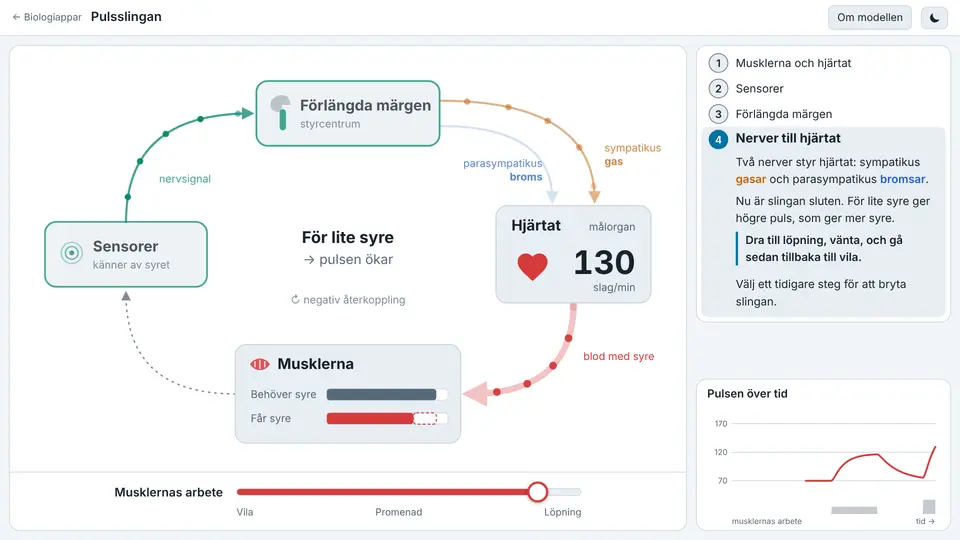
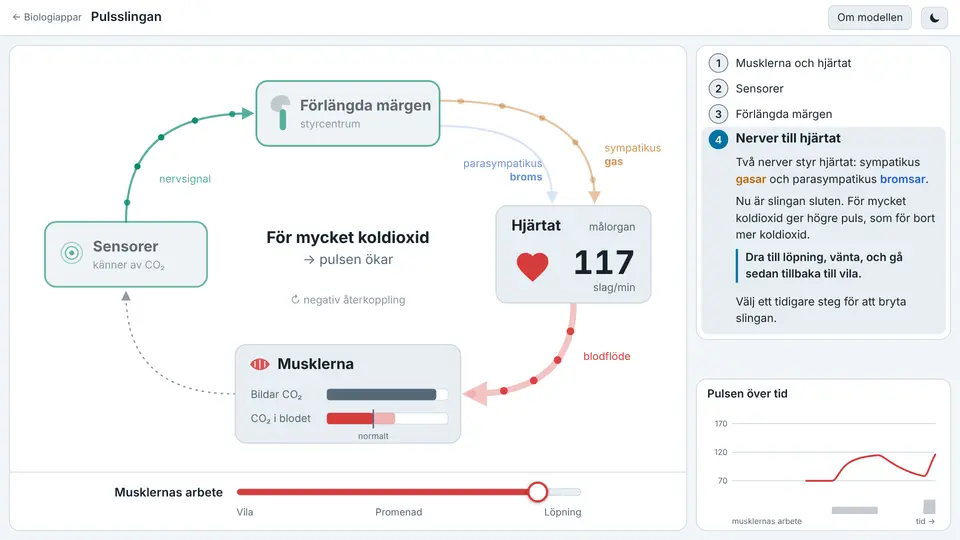
Pulsslingan: koldioxid i stället för syre som reglerad storhet
Musklerna bildar koldioxid, blodet för bort den i takt med pulsen och
sensorerna (kemoreceptorerna) känner av halten, som i läroboken. Staplarna
visar nu bildning och halt i blodet med ett streck för det normala.
Texter, skärmbilder och README uppdaterade.

Claude-Session: https://claude.ai/code/session_01HNnAZB4cnBmYdBxoNJgV11

diff --git a/puls/index.html b/puls/index.html
@@ -5,7 +5,7 @@
 <meta charset="UTF-8">
 <meta name="viewport" content="width=device-width, initial-scale=1.0">
 <title>Pulsslingan 0.1</title>
-<meta name="description" content="Bygg upp regleringen av pulsen en del i taget och se hur kroppen kompenserar när musklerna arbetar.">
+<meta name="description" content="Bygg upp regleringen av pulsen en del i taget och se hur kroppen håller koldioxidhalten nere när musklerna arbetar.">
 <script id="tema-start">
   // Tema före första ritningen, så att sidan inte blinkar till i fel tema.
   // Ett sparat val (temaknappen) gäller i alla apparna på webbplatsen;
@@ -18,7 +18,7 @@
   })();
 </script>
 <style>
-  /* Fyra färger bär betydelse, och bara de: blod/syre, sensorisk signal, gas och broms. */
+  /* Fyra färger bär betydelse, och bara de: blod, sensorisk signal, gas och broms. */
   :root {
     --bg:        #0b1016;
     --bg2:       #121a23;
@@ -150,7 +150,7 @@
   #lage1 { font-size: 23px; font-weight: 650; }
   #lage2 { font-size: 19px; }
   .stapel-bak { fill: var(--bg2); stroke: var(--border); }
-  #brist { fill: none; stroke: var(--blod); stroke-width: 1.5; stroke-dasharray: 4 3; }
+  #brist { fill: var(--blod); fill-opacity: .4; }
 
   /* ---------- Stegen ---------- */
   .sida { display: flex; flex-direction: column; gap: 12px; min-height: 0; overflow-y: auto; }
@@ -231,7 +231,7 @@
 <main>
   <section class="panel bild" aria-label="Regleringen av pulsen">
     <svg id="scen" viewBox="0 0 960 560" role="img" aria-labelledby="scen-titel">
-      <title id="scen-titel">Slingan som reglerar pulsen: musklerna, sensorer, förlängda märgen och hjärtat</title>
+      <title id="scen-titel">Slingan som reglerar koldioxidhalten och pulsen: musklerna, sensorer, förlängda märgen och hjärtat</title>
       <defs>
         <marker id="pil-blod" viewBox="0 0 10 10" refX="7" refY="5" markerWidth="4" markerHeight="4" orient="auto"><path d="M0 0L10 5L0 10z" class="f-blod"/></marker>
         <marker id="pil-nerv" viewBox="0 0 10 10" refX="7" refY="5" markerWidth="6" markerHeight="6" orient="auto"><path d="M0 0L10 5L0 10z" class="f-nerv"/></marker>
@@ -243,7 +243,7 @@
       <!-- Vägarna ritas först, så att korten ligger ovanpå ändarna. -->
       <g id="vag-blod">
         <path id="p-blod" class="vag s-blod" d="M800 343 Q800 472 652 472" stroke-width="9" opacity=".3" marker-end="url(#pil-blod)"/>
-        <text class="etikett f-blod" x="814" y="424">blod med syre</text>
+        <text class="etikett f-blod" x="814" y="424">blodflöde</text>
       </g>
       <g data-fran="2">
         <path class="vag s-dim" d="M320 472 Q165 472 165 330" stroke-width="2" stroke-dasharray="2 7" marker-end="url(#pil-dim)"/>
@@ -268,13 +268,15 @@
           <path d="M8 9.5v9M15 7.5v13M22 9.5v9" stroke="var(--bg3)" stroke-width="1.6"/>
         </g>
         <text class="rubrik" x="380" y="437">Musklerna</text>
-        <text class="roll dim" x="342" y="478">Behöver syre</text>
+        <text class="roll dim" x="342" y="478">Bildar CO₂</text>
         <rect class="stapel-bak" x="450" y="465" width="172" height="16" rx="4"/>
         <rect id="stapel-behov" class="f-dim" x="450" y="465" width="66" height="16" rx="4"/>
-        <text class="roll dim" x="342" y="512">Får syre</text>
+        <text class="roll dim" x="342" y="512">CO₂ i blodet</text>
         <rect class="stapel-bak" x="450" y="499" width="172" height="16" rx="4"/>
         <rect id="stapel-far" class="f-blod" x="450" y="499" width="66" height="16" rx="4"/>
         <rect id="brist" x="516" y="499" width="0" height="16" rx="4"/>
+        <line id="normal-streck" x1="516" x2="516" y1="494" y2="521" class="s-dim" stroke-width="2"/>
+        <text class="dim" x="516" y="536" text-anchor="middle" font-size="12">normalt</text>
       </g>
 
       <!-- Hjärtat -->
@@ -302,7 +304,7 @@
           <circle cx="16" cy="16" r="3.5" class="f-nerv"/>
         </g>
         <text class="rubrik" x="118" y="270">Sensorer</text>
-        <text class="roll dim" x="118" y="294">känner av syret</text>
+        <text class="roll dim" x="118" y="294">känner av CO₂</text>
       </g>
 
       <!-- Förlängda märgen -->
@@ -329,7 +331,7 @@
 
       <!-- Vad som händer just nu, mitt i slingan -->
       <g aria-live="polite">
-        <text id="lage1" x="480" y="258" text-anchor="middle">Syret räcker</text>
+        <text id="lage1" x="480" y="258" text-anchor="middle">Normal CO₂-halt</text>
         <text id="lage2" class="dim" x="480" y="288" text-anchor="middle"></text>
       </g>
       <text class="roll dim" data-fran="4" x="480" y="344" text-anchor="middle">↻ negativ återkoppling</text>
@@ -365,8 +367,8 @@
     <li>Modellen är förenklad för att visa principen: en störning, en sensor, ett styrcentrum, ett målorgan och en slinga som sluts.</li>
     <li>Tiden går fortare än i verkligheten. I kroppen tar det någon minut för pulsen att ställa in sig, och längre än så att återhämta sig.</li>
     <li>Här står pulsen still på 70 tills slingan är sluten. Ett hjärta helt utan nerver slår i sin egen takt, ungefär 100 slag/min. Vilopulsen är lägre eftersom parasympatikus bromsar hela tiden.</li>
-    <li>Sensorerna (kemoreceptorer) känner i verkligheten mest av koldioxid och pH i blodet, som ändras när musklerna arbetar. Pulsen styrs också av blodtrycket, av signaler från muskler och leder, av hjärnans egna förberedelser inför rörelse och av adrenalin.</li>
-    <li>Hjärtat pumpar också mer blod per slag vid arbete. Här ändras bara pulsen.</li>
+    <li>Sensorerna är kemoreceptorer. De känner av koldioxid och därmed pH i blodet: mer koldioxid ger lägre pH. Syrehalten ändras mycket mindre vid arbete.</li>
+    <li>Koldioxiden förs i verkligheten bort av andningen också, som ökar vid arbete. Här ingår bara hjärtats del. Pulsen styrs dessutom av blodtrycket, av signaler från muskler och leder, av hjärnans förberedelser inför rörelse och av adrenalin, och hjärtat pumpar mer blod per slag vid arbete.</li>
   </ul>
   <form method="dialog"><button class="knapp" type="submit">Stäng</button></form>
 </dialog>
@@ -404,25 +406,28 @@ const Tema = (() => {
 // ---------------------------------------------------------------------
 // Modellen
 // ---------------------------------------------------------------------
-// Musklernas behov av syre och det syre blodet levererar räknas i andelar av
-// vilovärdet (1 = vila). Leveransen följer pulsen. När slingan är sluten
-// (steg 4) ändrar förlängda märgen pulsen så länge behov och leverans skiljer
-// sig åt; annars står pulsen på vilovärdet.
+// Musklerna bildar koldioxid (behov, i andelar av vilovärdet: 1 = vila) och
+// blodet för bort den i takt med pulsen. Koldioxidhalten i blodet (co2, 1 = normalt)
+// stiger när det bildas mer än vad som förs bort. När slingan är sluten (steg 4)
+// ändrar förlängda märgen pulsen så länge halten avviker från det normala;
+// annars står pulsen på vilovärdet.
 const VILOPULS = 70, MAXBEHOV = 2.5;
 const klamp = (x, a, b) => Math.min(b, Math.max(a, x));
 const Modell = {
   steg: 1,        // 1 muskler och hjärta, 2 + sensorer, 3 + förlängda märgen, 4 + nerver (sluten slinga)
   arbete: 0,      // 0 vila … 1 löpning
-  behov: 1,
+  behov: 1,       // musklernas bildning av koldioxid
+  co2: 1,         // koldioxidhalt i blodet
   puls: VILOPULS,
-  get leverans() { return this.puls / VILOPULS; },
-  get skillnad() { return this.behov - this.leverans; },       // > 0: för lite syre
+  get leverans() { return this.puls / VILOPULS; },             // bortförsel per enhet koldioxid
+  get skillnad() { return this.co2 - 1; },                     // > 0: för mycket koldioxid
   // Nervernas aktivitet, 0–1. Bromsen släpper först, sedan ökar gasen.
   get broms() { return klamp((100 - this.puls) / 30, 0, 1); },
   get gas() { return klamp((this.puls - 75) / 105, 0, 1); },
   stega(dt) {
     const mal = 1 + (MAXBEHOV - 1) * this.arbete;
     this.behov += (mal - this.behov) * Math.min(1, dt / 0.4);
+    this.co2 += (this.behov - this.leverans * this.co2) * Math.min(1, dt / 0.5);
     if (this.steg >= 4) {
       const e = this.skillnad;
       this.puls += VILOPULS * e * dt / (e > 0 ? 2.2 : 4);        // återhämtningen går långsammare
@@ -438,11 +443,11 @@ const Modell = {
 // ---------------------------------------------------------------------
 const STEG = [
   { titel: 'Musklerna och hjärtat',
-    text: ['Hjärtat pumpar blod med syre till musklerna. Hårt arbete kräver mer syre.'],
-    prova: 'Dra reglaget mot löpning. Räcker syret?',
+    text: ['Musklerna bildar koldioxid, och blodet från hjärtat för bort den. Hårt arbete ger mer koldioxid.'],
+    prova: 'Dra reglaget mot löpning. Vad händer med koldioxidhalten?',
     nasta: 'Lägg till sensorer' },
   { titel: 'Sensorer',
-    text: ['Sensorer i blodkärlen känner av när syret inte räcker. Då skickar de nervsignaler.'],
+    text: ['Sensorer i blodkärlen känner av koldioxid. När halten stiger skickar de nervsignaler.'],
     prova: 'Öka arbetet igen. Vart tar signalen vägen?',
     nasta: 'Lägg till förlängda märgen' },
   { titel: 'Förlängda märgen',
@@ -451,7 +456,7 @@ const STEG = [
     nasta: 'Lägg till nerver till hjärtat' },
   { titel: 'Nerver till hjärtat',
     text: ['Två nerver styr hjärtat: sympatikus <span class="ord-gas">gasar</span> och parasympatikus <span class="ord-broms">bromsar</span>.',
-           'Nu är slingan sluten. För lite syre ger högre puls, som ger mer syre.'],
+           'Nu är slingan sluten. För mycket koldioxid ger högre puls, som för bort mer koldioxid.'],
     prova: 'Dra till löpning, vänta, och gå sedan tillbaka till vila.',
     efter: 'Välj ett tidigare steg för att bryta slingan.' },
 ];
@@ -538,7 +543,7 @@ const prickGas = prickrad('p-gas', 'f-gas', 5, 4.5);
 const prickBroms = prickrad('p-broms', 'f-broms', 5, 4.5);
 
 const GRANS = 0.05;          // mindre skillnad än så räknas som balans
-const STAPEL = 172 / 2.6;    // pixlar per andel av vilobehovet
+const STAPEL = 172 / 2.6;    // pixlar per andel av vilovärdet
 const historik = [];         // { puls, arbete }, en punkt per tiondels sekund
 let sedanPunkt = 0, hjartfas = 0;
 const lugnt = matchMedia('(prefers-reduced-motion: reduce)');
@@ -546,20 +551,20 @@ const lugnt = matchMedia('(prefers-reduced-motion: reduce)');
 function lagestext() {
   const e = Modell.skillnad, s = Modell.steg;
   if (e > GRANS) {
-    return ['För lite syre', ['pulsen ändras inte', 'signalen når ingen', 'signalen når inte hjärtat', '→ pulsen ökar'][s - 1]];
+    return ['För mycket koldioxid', ['pulsen ändras inte', 'signalen når ingen', 'signalen når inte hjärtat', '→ pulsen ökar'][s - 1]];
   }
-  if (s >= 4 && e < -GRANS) return ['Mer syre än det behövs', '→ pulsen sjunker'];
-  return s >= 4 ? ['I balans', 'syret räcker precis'] : ['Syret räcker', ''];
+  if (s >= 4 && e < -GRANS) return ['För lite koldioxid', '→ pulsen sjunker'];
+  return s >= 4 ? ['I balans', 'koldioxidhalten är normal'] : ['Normal CO₂-halt', ''];
 }
 
 function rita(dt) {
   const m = Modell, e = m.skillnad;
   // Musklernas staplar
-  const behov = m.behov * STAPEL, far = m.leverans * STAPEL;
+  const behov = m.behov * STAPEL;
   $('stapel-behov').setAttribute('width', behov.toFixed(1));
-  $('stapel-far').setAttribute('width', far.toFixed(1));
-  $('brist').setAttribute('x', (450 + far).toFixed(1));
-  $('brist').setAttribute('width', Math.max(0, behov - far).toFixed(1));
+  $('stapel-far').setAttribute('width', Math.min(1, m.co2) * STAPEL);
+  $('brist').setAttribute('x', (450 + STAPEL).toFixed(1));
+  $('brist').setAttribute('width', Math.max(0, Math.min(172, m.co2 * STAPEL) - STAPEL).toFixed(1));
   // Hjärtat
   $('puls-tal').textContent = Math.round(m.puls);
   hjartfas = (hjartfas + dt * m.puls / 60) % 1;

diff --git a/biologi/index.html b/biologi/index.html
@@ -163,10 +163,10 @@
         <p>Varför slår hjärtat fortare när du springer? Bygg upp regleringen av pulsen en del i taget: musklerna och
         hjärtat, sensorerna, förlängda märgen och nerverna till hjärtat. Ett enda reglage, musklernas arbete, visar
         vad varje del gör och vad som saknas tills slingan är sluten.</p>
-        <p>När slingan är sluten syns hur kroppen kompenserar: syret räcker inte, pulsen stiger och balansen kommer
-        tillbaka. Gjord för att förstås snabbt, med lite text och få saker att hålla reda på.</p>
+        <p>När slingan är sluten syns hur kroppen kompenserar: musklerna bildar koldioxid, sensorerna känner av den, pulsen stiger och
+        koldioxidhalten kommer tillbaka till det normala. Gjord för att förstås snabbt, med lite text och få saker att hålla reda på.</p>
         <ul class="omraden" aria-label="Områden">
-          <li>Homeostas</li><li>Negativ återkoppling</li><li>Puls</li><li>Sympatikus och parasympatikus</li><li>Förlängda märgen</li>
+          <li>Homeostas</li><li>Negativ återkoppling</li><li>Puls</li><li>Sympatikus och parasympatikus</li><li>Kemoreceptorer</li><li>Förlängda märgen</li>
         </ul>
         <a class="oppna" href="../puls/">Öppna Pulsslingan →</a>
       </div>

diff --git a/README.md b/README.md
@@ -38,7 +38,7 @@ I fritt bygge bygger eleven på en tom duk med egna storheter, källor, förlust
 
 ## Pulsslingan
 
-Regleringen av pulsen, uppbyggd en del i taget: musklerna och hjärtat, sensorerna, förlängda märgen och nerverna till hjärtat (sympatikus som gas, parasympatikus som broms). Det finns ett enda reglage, musklernas arbete. Innan slingan är sluten ger arbete en syrebrist som ingen gör något åt; när den är sluten stiger pulsen tills syret räcker och faller tillbaka i vila. Appen är gjord för att förstås snabbt: lite text, få delar på skärmen åt gången och ett tidigare steg som sätt att bryta slingan.
+Regleringen av pulsen, uppbyggd en del i taget: musklerna och hjärtat, sensorerna, förlängda märgen och nerverna till hjärtat (sympatikus som gas, parasympatikus som broms). Det finns ett enda reglage, musklernas arbete. Musklerna bildar koldioxid och blodet för bort den i takt med pulsen. Innan slingan är sluten ger arbete en koldioxidhalt som bara stiger; när den är sluten känner sensorerna (kemoreceptorerna) av den, förlängda märgen höjer pulsen tills halten är normal igen, och pulsen faller tillbaka i vila. Appen är gjord för att förstås snabbt: lite text, få delar på skärmen åt gången och ett tidigare steg som sätt att bryta slingan.
 
 ## Kroppens termostat
 
